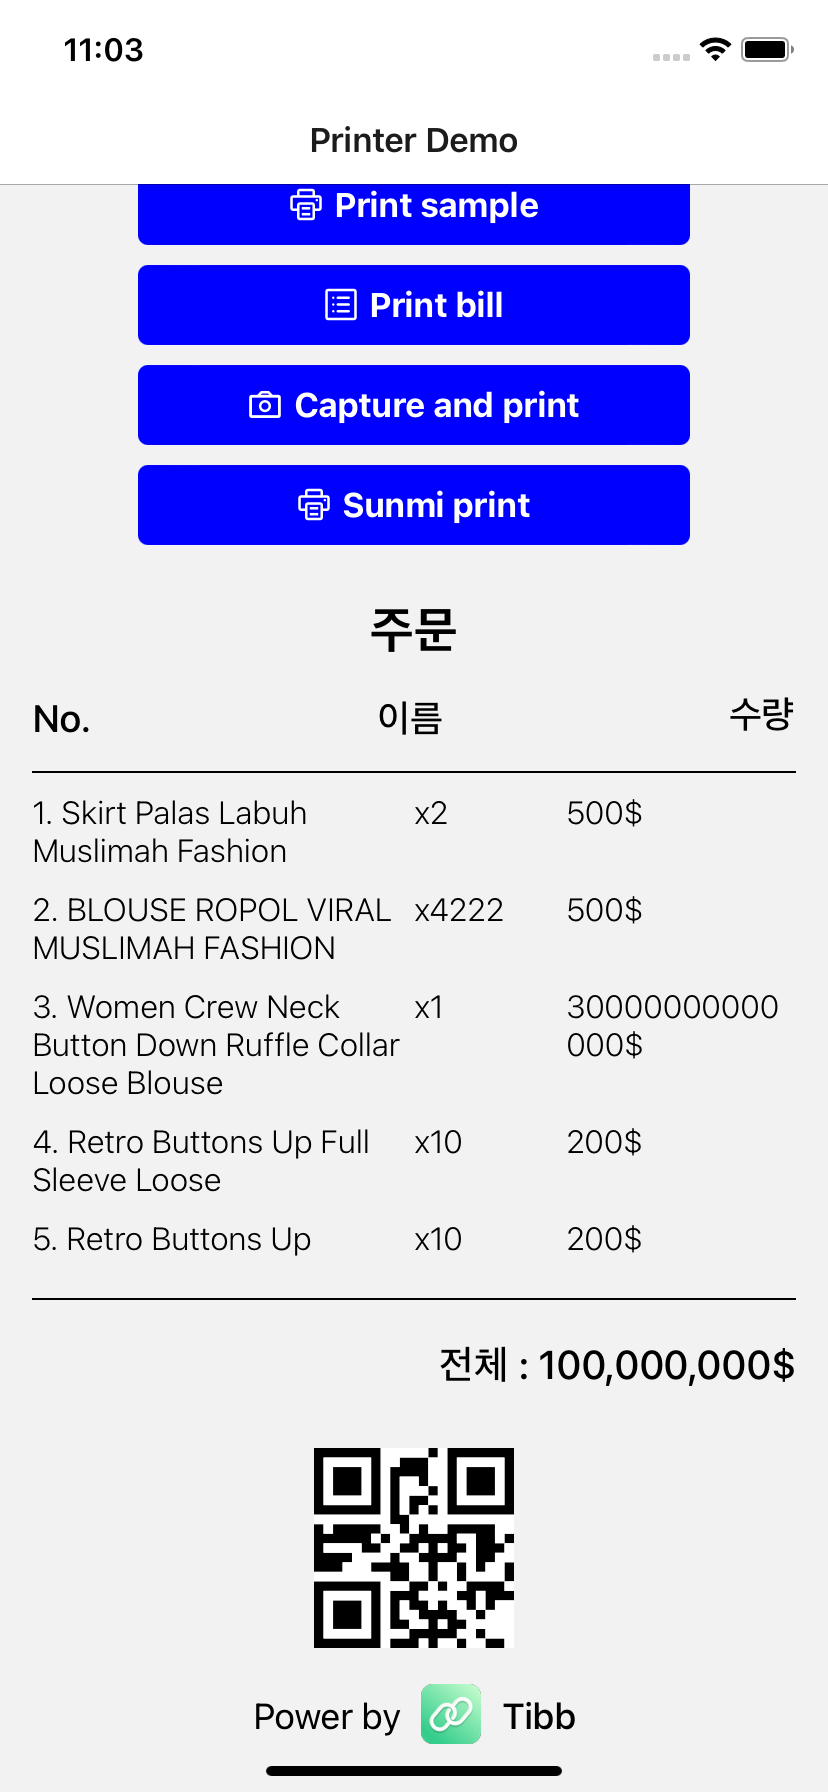
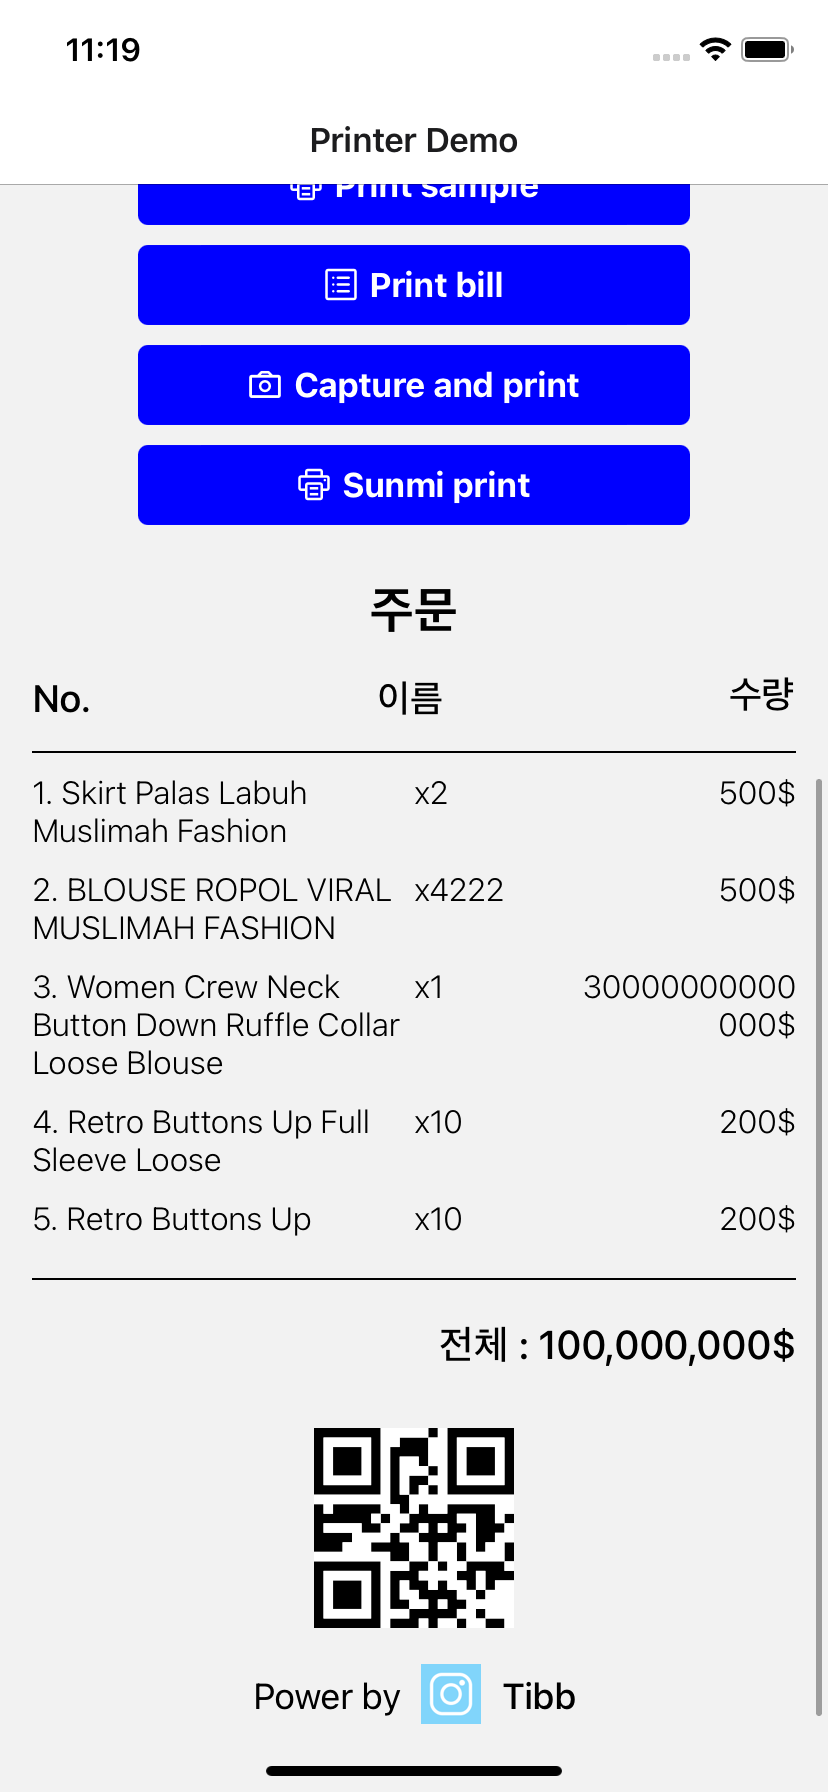
update image

diff --git a/example/src/HomeScreen.tsx b/example/src/HomeScreen.tsx
@@ -427,12 +427,13 @@ export const HomeScreen = ({route}: any) => {
             </View >
             <View style={{height: 1, backgroundColor: 'black', marginTop: 15}} />
             <View style={{flex: 1}} >
-              {orderList.map((order) => {
+              {orderList.map((order, index) => {
                 return (
-                  <View style={{flexDirection: 'row', justifyContent: 'space-between', marginTop: 10}} >
+                  <View style={{flexDirection: 'row', justifyContent: 'space-between', marginTop: 10}}
+                        key={index.toString()} >
                     <Text style={{flex: 0.5, fontSize: 16, fontWeight: '300'}} >{order[0]}</Text >
                     <Text style={{flex: 0.2, fontSize: 16, fontWeight: '300'}} >{order[1]}</Text >
-                    <Text style={{flex: 0.3, fontSize: 16, fontWeight: '300'}} >{order[2]}</Text >
+                    <Text style={{flex: 0.3, fontSize: 16, fontWeight: '300', textAlign: 'right'}} >{order[2]}</Text >
                   </View >
                 )
               })}
@@ -449,10 +450,7 @@ export const HomeScreen = ({route}: any) => {
                 Power by
               </Text >
               <Image source={require('../bitmap.png')} style={{
-                height: 30,
-                width: 30,
-                marginLeft: 10,
-                marginRight: 10
+                height: 30, width: 30, marginLeft: 10, marginRight: 10
               }} />
               <Text style={{fontWeight: '500', textAlign: 'right', fontSize: 18, marginTop: 5}} >
                 Tibb
@@ -460,7 +458,7 @@ export const HomeScreen = ({route}: any) => {
             </View >
           </View >
         </ScrollView >
-        <View style={{height: 30}} />
+        <View style={{height: 40}} />
       </View >
       <Loading loading={loading} />
     </ScrollView >

diff --git a/README.md b/README.md
@@ -15,8 +15,8 @@
 <br /> <br />
 <div style="display: flex; flex-direction: row; align-self: center; align-items: center">
 <img src="image/invoice.jpg" alt="bill" width="270" height="580"/>
-<img src="image/screenshot.jpg" alt="screenshot" width="270" height="580"/>
-<img src="image/screenshot_1.jpg" alt="screenshot" width="270" height="580"/>
+<img src="image/screenshot.png" alt="screenshot" width="270" height="580"/>
+<img src="image/screenshot_1.png" alt="screenshot" width="270" height="580"/>
 </div>
 
 ## Installation
